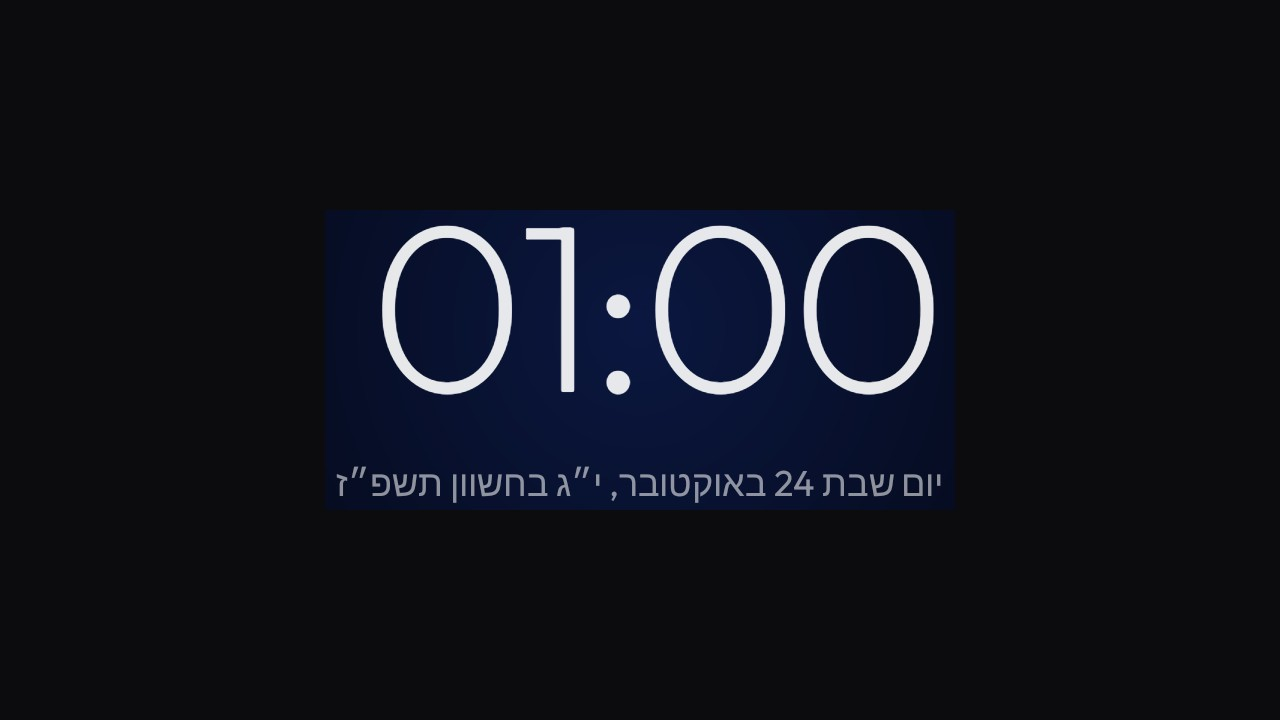
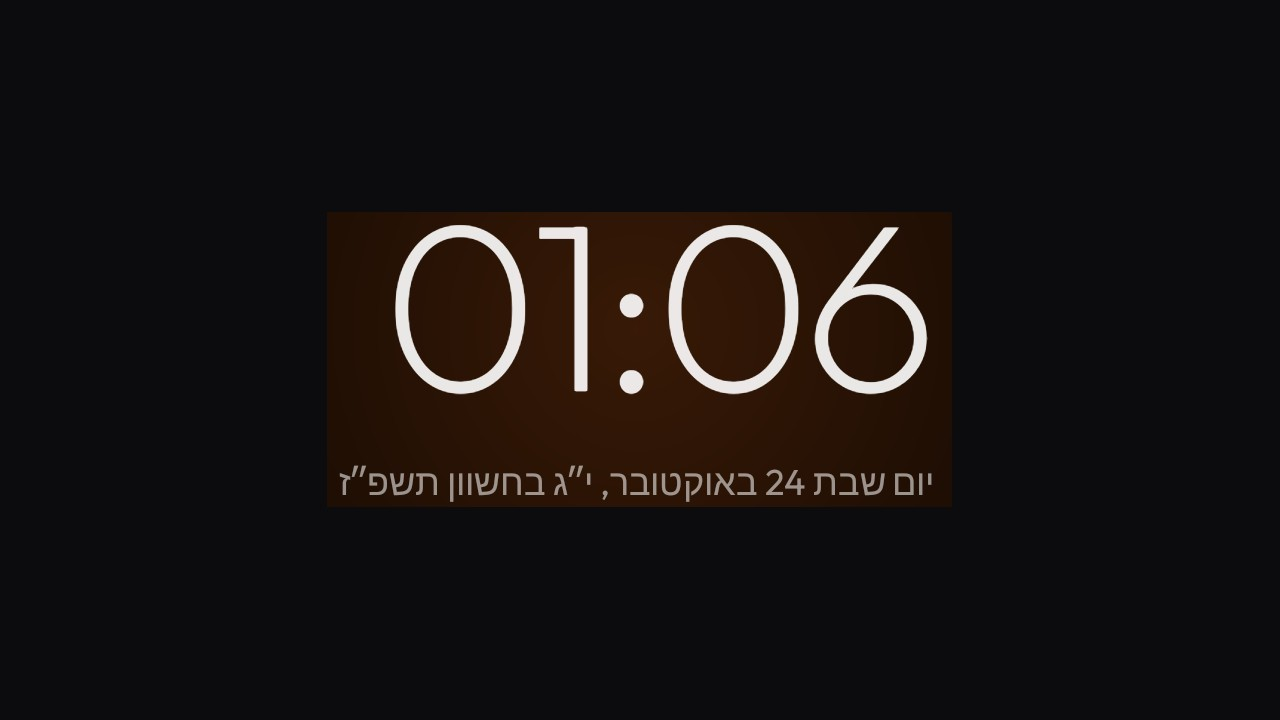
Launcher: trim Hebrew gershayim glyph padding in calendar dates

Changed region(s): [[0.25, 0.275, 0.75, 0.7333]]

diff --git a/launcher/app/src/main/java/com/gathin/tvhome/JewishDate.java b/launcher/app/src/main/java/com/gathin/tvhome/JewishDate.java
@@ -95,6 +95,35 @@ final class JewishDate {
         return gregorian + "', " + hebrew.replace("'", "''") + "'";
     }
 
+    /** Keep the proper Hebrew punctuation, but trim its font's oversized side bearings. */
+    static final class CompactQuotes extends android.text.method.SingleLineTransformationMethod {
+        @Override public CharSequence getTransformation(CharSequence source, android.view.View view) {
+            CharSequence text = super.getTransformation(source, view);
+            if (text == null) return null;
+            android.text.SpannableString result = new android.text.SpannableString(text);
+            for (int i = 0; i < text.length(); i++) {
+                if (text.charAt(i) == '״') result.setSpan(new Quote(), i, i + 1,
+                        android.text.Spanned.SPAN_EXCLUSIVE_EXCLUSIVE);
+            }
+            return result;
+        }
+    }
+
+    private static final class Quote extends android.text.style.ReplacementSpan {
+        private final android.graphics.Rect bounds = new android.graphics.Rect();
+
+        @Override public int getSize(android.graphics.Paint paint, CharSequence text, int start, int end,
+                android.graphics.Paint.FontMetricsInt metrics) {
+            paint.getTextBounds(text.toString(), start, end, bounds);
+            return bounds.width();
+        }
+
+        @Override public void draw(android.graphics.Canvas canvas, CharSequence text, int start, int end,
+                float x, int top, int y, int bottom, android.graphics.Paint paint) {
+            canvas.drawText(text, start, end, x - bounds.left, y, paint);
+        }
+    }
+
     /** Omit only a year's thousands prefix; preserve day 5 and Adar I/II markers. */
     static String withoutMillennium(String text) {
         return text.replaceFirst(" [א-ט]׳(?=[א-ת׳״]+$)", " ");

diff --git a/launcher/app/src/main/java/com/gathin/tvhome/ClockScene.java b/launcher/app/src/main/java/com/gathin/tvhome/ClockScene.java
@@ -46,6 +46,10 @@ final class ClockScene {
         content = root.findViewById(R.id.dreamContent);
         date = root.findViewById(R.id.dreamDate);
         jewishDate = Config.load(root.getContext()).jewishDate;
+        String language = java.util.Locale.getDefault().getLanguage();
+        if (jewishDate != null && jewishDate.showDate
+                && ("he".equals(language) || "iw".equals(language)))
+            date.setTransformationMethod(new JewishDate.CompactQuotes());
         View ambient = root.findViewById(R.id.dreamAmbient);
         glow = new GradientDrawable();
         glow.setGradientType(GradientDrawable.RADIAL_GRADIENT);

diff --git a/launcher/app/src/main/java/com/gathin/tvhome/MainActivity.java b/launcher/app/src/main/java/com/gathin/tvhome/MainActivity.java
@@ -467,6 +467,7 @@ public class MainActivity extends Activity implements AppAdapter.TileListener {
                 shamsiDate.setTextSize(14f);
                 shamsiDate.setTextColor(date.getCurrentTextColor());
                 shamsiDate.setLetterSpacing(0f);
+                shamsiDate.setTransformationMethod(new JewishDate.CompactQuotes());
                 date.setLetterSpacing(0f);
             }
             date.setTextSize(hebrewDate ? 14f : 11f);
